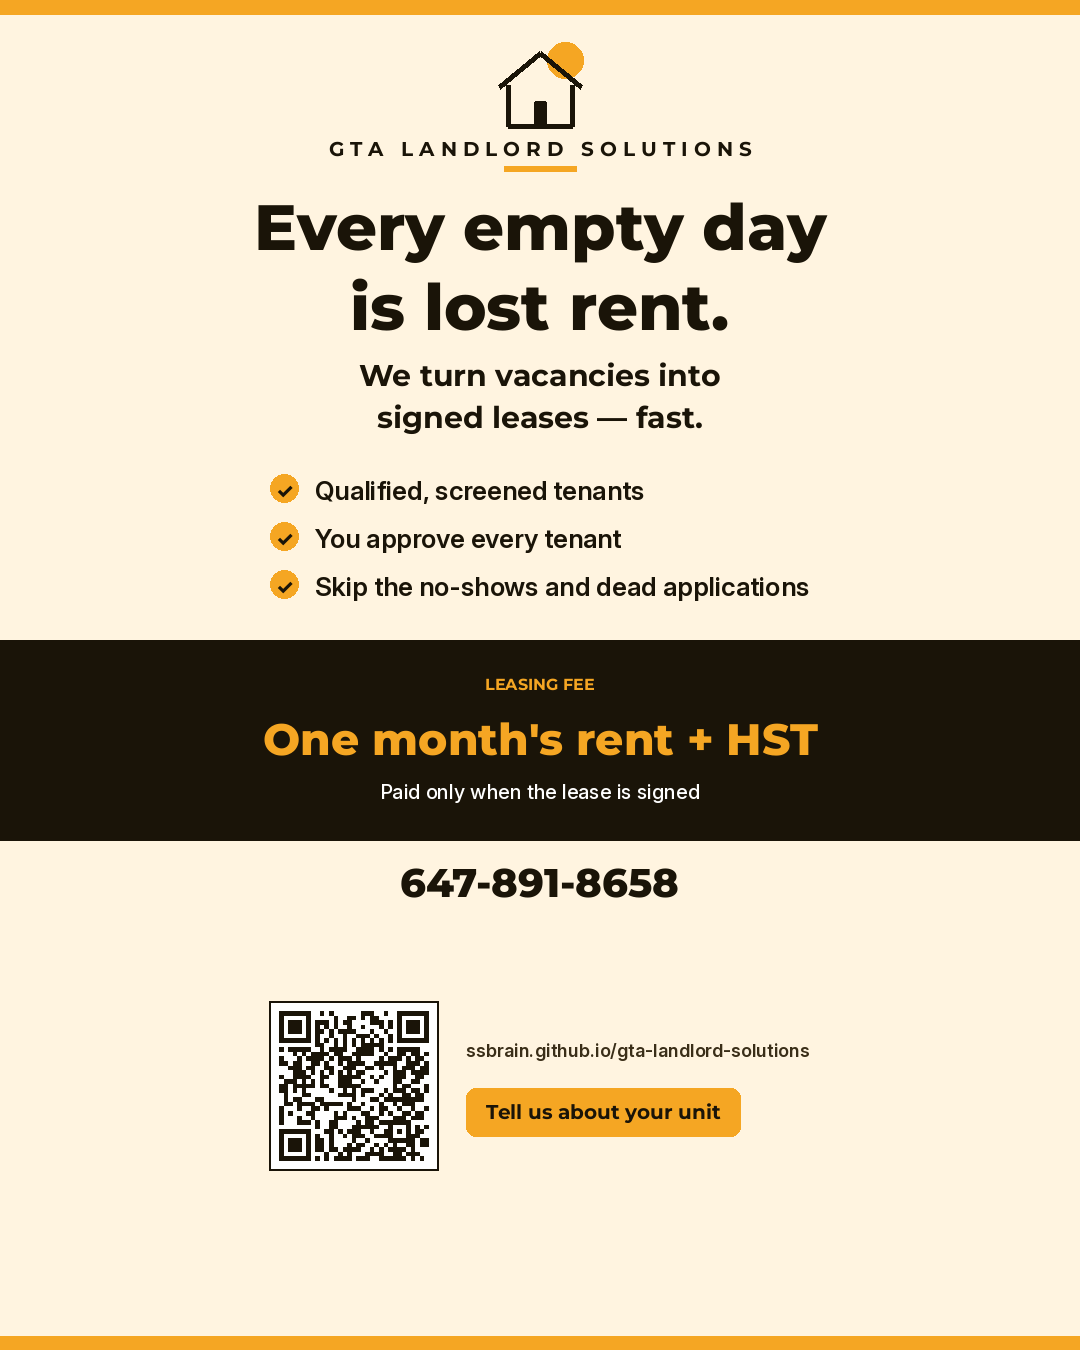
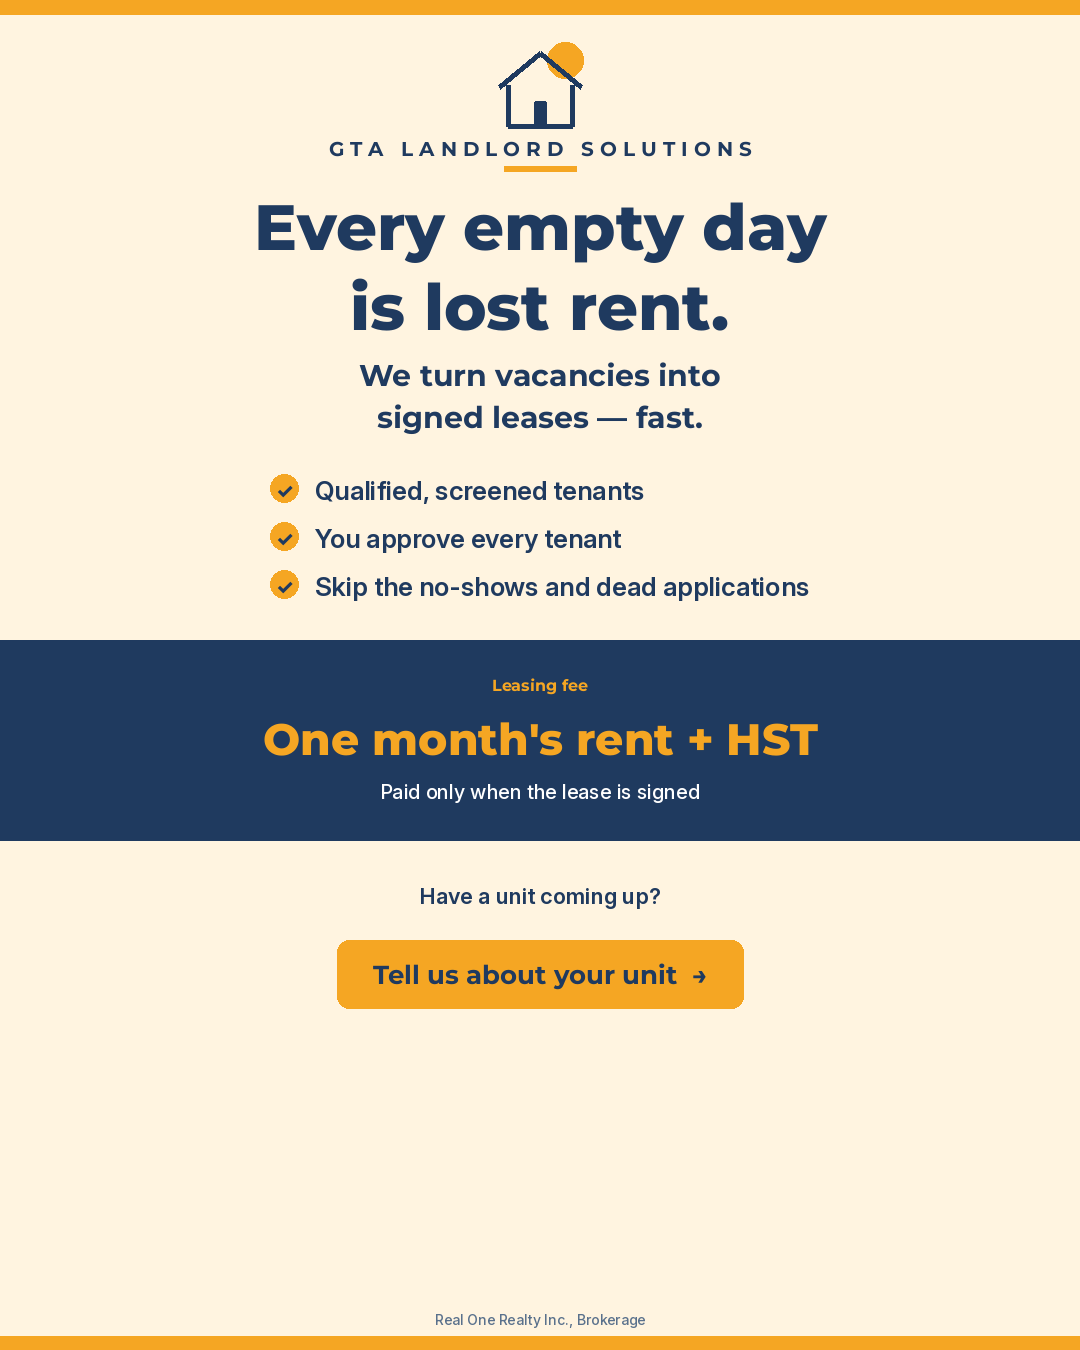
Use navy instead of black, and make the form the only contact path
Drop phone, email, QR codes and visible GitHub URLs from the site
and flyer. The flyer now has one Tell us about your unit button.

diff --git a/index.html b/index.html
@@ -14,12 +14,12 @@
   --brand2:#E89612;
   --cream:#FFF4E0;
   --bg:#FFFBF4;
-  --ink:#1A1408;
-  --ink2:#3A2E18;
-  --muted:#5C4C2E;
+  --ink:#1F3A5F;
+  --ink2:#3A5478;
+  --muted:#5A718C;
   --line:#F0D9A8;
   --green:#1c7c4a;
-  --dark:#1A1408;
+  --dark:#1F3A5F;
 }
 *{box-sizing:border-box}html{scroll-behavior:smooth}
 body{margin:0;font-family:Inter,"Segoe UI",Arial,sans-serif;color:var(--ink);background:#fff;line-height:1.55}
@@ -47,7 +47,7 @@ nav.links a{text-decoration:none;color:var(--ink2);font-weight:500}
 .btn:hover{background:var(--brand2)}
 .btn.alt{background:#fff;color:var(--ink);border:2px solid var(--ink)}
 .btn.alt:hover{background:var(--cream)}
-.pricebox{background:var(--dark);color:#fff;border-radius:14px;padding:30px 26px;text-align:center;box-shadow:0 14px 40px rgba(26,20,8,.22)}
+.pricebox{background:var(--dark);color:#fff;border-radius:14px;padding:30px 26px;text-align:center;box-shadow:0 14px 40px rgba(31,58,95,.22)}
 .pricebox .lab{letter-spacing:.18em;text-transform:uppercase;font-size:13px;font-weight:700;color:var(--brand)}
 .pricebox .big{font-family:Montserrat,Arial,sans-serif;font-size:32px;font-weight:800;margin:8px 0;color:var(--brand);line-height:1.2}
 .pricebox .note{font-size:15px;opacity:.92}
@@ -93,7 +93,7 @@ details p{margin:0 0 16px;color:var(--muted)}
 .contact a.mail,.contact a.tel{color:#fff;font-weight:600;text-decoration:none}
 .contact .coords{margin-top:18px;font-size:16px}
 .contact .coords span{opacity:.7;margin:0 8px}
-footer{background:#100C06;color:#E8D5B0;text-align:center;padding:22px 20px;font-size:14px}
+footer{background:#16304F;color:#E8EEF5;text-align:center;padding:22px 20px;font-size:14px}
 footer small{display:block;opacity:.75;margin-top:6px;font-size:12px}
 .form-card{max-width:740px;margin:0 auto;background:#fff;border:1px solid var(--line);border-radius:14px;padding:32px 28px}
 .form-grid{display:grid;grid-template-columns:1fr 1fr;gap:16px 20px}
@@ -134,9 +134,9 @@ footer small{display:block;opacity:.75;margin-top:6px;font-size:12px}
  <a class="brand" href="#top" aria-label="GTA Landlord Solutions">
   <svg width="40" viewBox="0 0 48 48" aria-hidden="true">
     <circle cx="36" cy="11" r="7" fill="#F5A623"/>
-    <path d="M5 22 24 7l19 15" fill="none" stroke="#1A1408" stroke-width="3.5" stroke-linejoin="round"/>
-    <path d="M9 20.5v22.5h30V20.5" fill="none" stroke="#1A1408" stroke-width="3.5"/>
-    <rect x="19" y="28" width="10" height="15" rx="1.5" fill="#1A1408"/>
+    <path d="M5 22 24 7l19 15" fill="none" stroke="#1F3A5F" stroke-width="3.5" stroke-linejoin="round"/>
+    <path d="M9 20.5v22.5h30V20.5" fill="none" stroke="#1F3A5F" stroke-width="3.5"/>
+    <rect x="19" y="28" width="10" height="15" rx="1.5" fill="#1F3A5F"/>
   </svg>
   <span><b>GTA Landlord</b><small>SOLUTIONS</small></span></a>
  <nav class="links">
@@ -145,7 +145,6 @@ footer small{display:block;opacity:.75;margin-top:6px;font-size:12px}
   <a href="#faq">FAQ</a>
   <a href="#intake">Tell us about your unit</a>
  </nav>
- <a class="phone-link" href="tel:+16478918658">647-891-8658</a>
 </div></header>
 
 <div id="top" class="hero"><div class="wrap grid">
@@ -160,7 +159,6 @@ footer small{display:block;opacity:.75;margin-top:6px;font-size:12px}
     <li>Paid only when the lease is signed</li>
   </ul>
   <a class="btn" data-form href="#intake">Tell us about your unit</a>
-  <a class="btn alt" href="tel:+16478918658">Call 647-891-8658</a>
  </div>
  <div class="pricebox">
   <svg class="house" viewBox="0 0 120 80" aria-hidden="true">
@@ -216,7 +214,7 @@ footer small{display:block;opacity:.75;margin-top:6px;font-size:12px}
 <section id="how"><div class="wrap">
  <h2>How it works</h2>
  <div class="steps">
-  <div class="step"><div class="num"><svg viewBox="0 0 24 24"><path d="M9 2h6v4H9zM5 4h14v18H5z"/><path d="M9 12h6M9 16h4"/></svg></div><div class="n">1</div><h3>Tell us about your unit</h3><p>A short form, a call, or an email. Address, rent, and when it’s available.</p></div>
+  <div class="step"><div class="num"><svg viewBox="0 0 24 24"><path d="M9 2h6v4H9zM5 4h14v18H5z"/><path d="M9 12h6M9 16h4"/></svg></div><div class="n">1</div><h3>Tell us about your unit</h3><p>Fill in the short form with the address, the rent, and when it’s available.</p></div>
   <div class="step"><div class="num"><svg viewBox="0 0 24 24"><circle cx="11" cy="11" r="7"/><path d="m21 21-4.3-4.3"/></svg></div><div class="n">2</div><h3>We bring you screened tenants</h3><p>Credit, income, employment and references — already checked — before they reach you.</p></div>
   <div class="step"><div class="num"><svg viewBox="0 0 24 24"><path d="M9 11l3 3 8-8"/><path d="M20 12v7a2 2 0 0 1-2 2H6a2 2 0 0 1-2-2V5a2 2 0 0 1 2-2h9"/></svg></div><div class="n">3</div><h3>You approve</h3><p>You keep control. Nothing moves forward until you say yes.</p></div>
   <div class="step"><div class="num"><svg viewBox="0 0 24 24"><path d="M14 2H6a2 2 0 0 0-2 2v16a2 2 0 0 0 2 2h12a2 2 0 0 0 2-2V8z"/><path d="M14 2v6h6M8 13h8M8 17h5"/></svg></div><div class="n">4</div><h3>They sign</h3><p>A qualified tenant, ready to sign. Your vacancy starts earning again.</p></div>
@@ -294,20 +292,9 @@ footer small{display:block;opacity:.75;margin-top:6px;font-size:12px}
  </form>
 </div></section>
 
-<section id="contact" class="contact"><div class="wrap">
- <h2>Prefer to call or email?</h2>
- <p>You can also reach us directly. We’ll get back to you quickly.</p>
- <a class="btn" href="tel:+16478918658">Call 647-891-8658</a>
- <a class="btn alt" href="mailto:besthome8658@outlook.com">Email us</a>
- <p class="coords">
-  <a class="tel" href="tel:+16478918658">647-891-8658</a>
-  <span>·</span>
-  <a class="mail" href="mailto:besthome8658@outlook.com">besthome8658@outlook.com</a>
- </p>
-</div></section>
 
 <footer>
- <span>GTA Landlord Solutions · Greater Toronto Area · <a href="tel:+16478918658" style="color:inherit;text-decoration:none;white-space:nowrap">647-891-8658</a></span>
+ <span>GTA Landlord Solutions · Greater Toronto Area</span>
  <small>Real One Realty Inc., Brokerage</small>
 </footer>
 

diff --git a/thanks.html b/thanks.html
@@ -9,7 +9,7 @@
 <link rel="preconnect" href="https://fonts.googleapis.com">
 <link href="https://fonts.googleapis.com/css2?family=Montserrat:wght@600;700;800&family=Inter:wght@400;500;600&display=swap" rel="stylesheet">
 <style>
-:root{--brand:#F5A623;--cream:#FFF4E0;--ink:#1A1408;--ink2:#3A2E18;--muted:#5C4C2E;--line:#F0D9A8;--dark:#1A1408}
+:root{--brand:#F5A623;--cream:#FFF4E0;--ink:#1F3A5F;--ink2:#3A5478;--muted:#5A718C;--line:#F0D9A8;--dark:#1F3A5F}
 *{box-sizing:border-box}
 body{margin:0;font-family:Inter,"Segoe UI",Arial,sans-serif;color:var(--ink);background:var(--cream);line-height:1.55;min-height:100vh;display:flex;flex-direction:column}
 h1{font-family:Montserrat,Inter,Arial,sans-serif;font-size:36px;font-weight:800;line-height:1.2;margin:0 0 12px}
@@ -26,7 +26,7 @@ main{flex:1;display:grid;place-items:center;padding:48px 20px}
 .btn.alt{background:#fff;color:var(--ink);border:2px solid var(--ink)}
 .coords{margin-top:8px;font-size:15px}
 .coords a{color:var(--ink);font-weight:600;text-decoration:none}
-footer{background:#100C06;color:#E8D5B0;text-align:center;padding:22px 20px;font-size:14px}
+footer{background:#16304F;color:#E8EEF5;text-align:center;padding:22px 20px;font-size:14px}
 footer small{display:block;opacity:.75;margin-top:6px;font-size:12px}
 @media(max-width:560px){h1{font-size:28px}.card{padding:28px 18px}.btn{display:block}}
 </style>
@@ -36,24 +36,21 @@ footer small{display:block;opacity:.75;margin-top:6px;font-size:12px}
  <a class="brand" href="index.html" aria-label="GTA Landlord Solutions">
   <svg width="40" viewBox="0 0 48 48" aria-hidden="true">
     <circle cx="36" cy="11" r="7" fill="#F5A623"/>
-    <path d="M5 22 24 7l19 15" fill="none" stroke="#1A1408" stroke-width="3.5" stroke-linejoin="round"/>
-    <path d="M9 20.5v22.5h30V20.5" fill="none" stroke="#1A1408" stroke-width="3.5"/>
-    <rect x="19" y="28" width="10" height="15" rx="1.5" fill="#1A1408"/>
+    <path d="M5 22 24 7l19 15" fill="none" stroke="#1F3A5F" stroke-width="3.5" stroke-linejoin="round"/>
+    <path d="M9 20.5v22.5h30V20.5" fill="none" stroke="#1F3A5F" stroke-width="3.5"/>
+    <rect x="19" y="28" width="10" height="15" rx="1.5" fill="#1F3A5F"/>
   </svg>
   <span><b>GTA Landlord</b><small>SOLUTIONS</small></span></a>
- <a href="tel:+16478918658" style="font-weight:700;text-decoration:none;color:var(--ink);white-space:nowrap">647-891-8658</a>
 </div></header>
 <main>
  <div class="card">
   <h1>Thank you.</h1>
   <p>We’ve received your note and will get back to you quickly.</p>
   <a class="btn" href="index.html">Back to the homepage</a>
-  <a class="btn alt" href="tel:+16478918658">Call 647-891-8658</a>
-  <p class="coords"><a href="mailto:besthome8658@outlook.com">besthome8658@outlook.com</a></p>
  </div>
 </main>
 <footer>
- <span>GTA Landlord Solutions · Greater Toronto Area · 647-891-8658</span>
+ <span>GTA Landlord Solutions · Greater Toronto Area</span>
  <small>Real One Realty Inc., Brokerage</small>
 </footer>
 </body>

diff --git a/flyer/render_flyer.py b/flyer/render_flyer.py
@@ -4,7 +4,6 @@
 from pathlib import Path
 
 from PIL import Image, ImageDraw, ImageFont
-import qrcode
 from reportlab.lib.pagesizes import letter
 from reportlab.lib.utils import ImageReader
 from reportlab.pdfgen import canvas as pdfcanvas
@@ -13,16 +12,13 @@ OUT = Path(__file__).resolve().parent
 MONT = "/usr/share/fonts/truetype/sand-box/google/Montserrat/Montserrat-VariableFont_wght.ttf"
 INTER = "/usr/share/fonts/truetype/sand-box/google/Inter/Inter-VariableFont_opsz,wght.ttf"
 
-INK = (26, 20, 8)
+INK = (31, 58, 95)  # #1F3A5F deep navy
 BRAND = (245, 166, 35)
 CREAM = (255, 244, 224)
 WHITE = (255, 255, 255)
-MUTED = (58, 46, 24)
+MUTED = (90, 113, 140)  # #5A718C
 
-SITE_URL = "https://ssbrain.github.io/gta-landlord-solutions/"
-SITE_DISPLAY = "ssbrain.github.io/gta-landlord-solutions"
 FEE = "One month's rent + HST"
-PHONE = "647-891-8658"
 
 W, H = 1080, 1350
 
@@ -75,17 +71,6 @@ def wrap_lines(draw, text, fnt, max_width):
         lines.append(cur)
     return lines
 
-
-def make_qr(size):
-    qr = qrcode.QRCode(
-        error_correction=qrcode.constants.ERROR_CORRECT_M,
-        box_size=10,
-        border=2,
-    )
-    qr.add_data(SITE_URL)
-    qr.make(fit=True)
-    img = qr.make_image(fill_color=INK, back_color=WHITE).convert("RGB")
-    return img.resize((size, size), Image.Resampling.NEAREST)
 
 
 def draw_logo(draw, cx, y, scale=1.0):
@@ -185,39 +170,27 @@ def render_png():
     fee_f = mont(44, 800)
     note_f = inter(20, 500)
     cy = band_top + band_h / 2
-    d.text((W / 2, cy - 62), "LEASING FEE", font=lab_f, fill=BRAND, anchor="mt")
-    # letter-space the label a bit
+    d.text((W / 2, cy - 62), "Leasing fee", font=lab_f, fill=BRAND, anchor="mt")
     d.text((W / 2, cy - 18), FEE, font=fee_f, fill=BRAND, anchor="mt")
     d.text((W / 2, cy + 44), "Paid only when the lease is signed", font=note_f, fill=WHITE, anchor="mt")
-    y = band_top + band_h + 28
+    y = band_top + band_h + 48
 
-    phone_f = mont(40, 800)
-    d.text((W / 2, y), PHONE, font=phone_f, fill=INK, anchor="mt")
-    y += 54
-
-    # bottom: QR + URL + CTA button
-    qr_size = 168
-    qr = make_qr(qr_size)
-    url_f = inter(18, 600)
-    cta_f = mont(20, 700)
-    cta = "Tell us about your unit"
-    url_w = d.textlength(SITE_DISPLAY, font=url_f)
+    # One clear button; no phone, email, QR, or site URL.
+    prompt_f = inter(22, 600)
+    d.text((W / 2, y), "Have a unit coming up?", font=prompt_f, fill=INK, anchor="mt")
+    y += 44
+    cta = "Tell us about your unit  →"
+    cta_f = mont(26, 700)
     cta_w = d.textlength(cta, font=cta_f)
-    pad_x, pad_y = 20, 14
-    btn_w, btn_h = cta_w + pad_x * 2, 20 + pad_y * 2
-    text_w = max(url_w, btn_w)
-    group_w = qr_size + 28 + text_w
-    gx = (W - group_w) / 2
-    remain = (H - bar - 16) - y
-    gy = y + max(8, (remain - qr_size) * 0.35)
-    img.paste(qr, (int(gx), int(gy)))
-    d.rectangle((gx - 1, gy - 1, gx + qr_size, gy + qr_size), outline=INK, width=2)
-    tx = gx + qr_size + 28
-    ty = gy + qr_size / 2
-    d.text((tx, ty - 36), SITE_DISPLAY, font=url_f, fill=MUTED, anchor="lm")
-    bx, by = tx, ty + 2
-    d.rounded_rectangle((bx, by, bx + btn_w, by + btn_h), radius=10, fill=BRAND)
+    pad_x, pad_y = 36, 20
+    btn_w, btn_h = cta_w + pad_x * 2, 28 + pad_y * 2
+    bx = (W - btn_w) / 2
+    by = y + 8
+    d.rounded_rectangle((bx, by, bx + btn_w, by + btn_h), radius=12, fill=BRAND)
     d.text((bx + btn_w / 2, by + btn_h / 2), cta, font=cta_f, fill=INK, anchor="mm")
+
+    foot_f = inter(14, 500)
+    d.text((W / 2, H - bar - 22), "Real One Realty Inc., Brokerage", font=foot_f, fill=MUTED, anchor="mt")
 
     return img
 

diff --git a/README.md b/README.md
@@ -2,13 +2,7 @@
 
 One-page site for GTA property managers and building owners.
 
-**Live:** https://ssbrain.github.io/gta-landlord-solutions/
-
-## Intake form
-
-The “Tell us about your unit” form is on the site at `#intake` and posts to FormSubmit (`besthome8658@outlook.com`). After submit, visitors go to `thanks.html`.
-
-All “Tell us about your unit” buttons use the value in `config.js`:
+The “Tell us about your unit” form is on the site at `#intake` and posts through FormSubmit. After submit, visitors go to `thanks.html`. Buttons use `config.js`:
 
 ```js
 window.FORM_LINK = "#intake";
@@ -21,12 +15,5 @@ window.FORM_LINK = "#intake";
 ```bash
 python3 flyer/render_flyer.py
 ```
-
-The QR code points at this website, so the form is reached through the site button.
-
-## Contact
-
-- Phone: 647-891-8658
-- Email: besthome8658@outlook.com
 
 Real One Realty Inc., Brokerage
